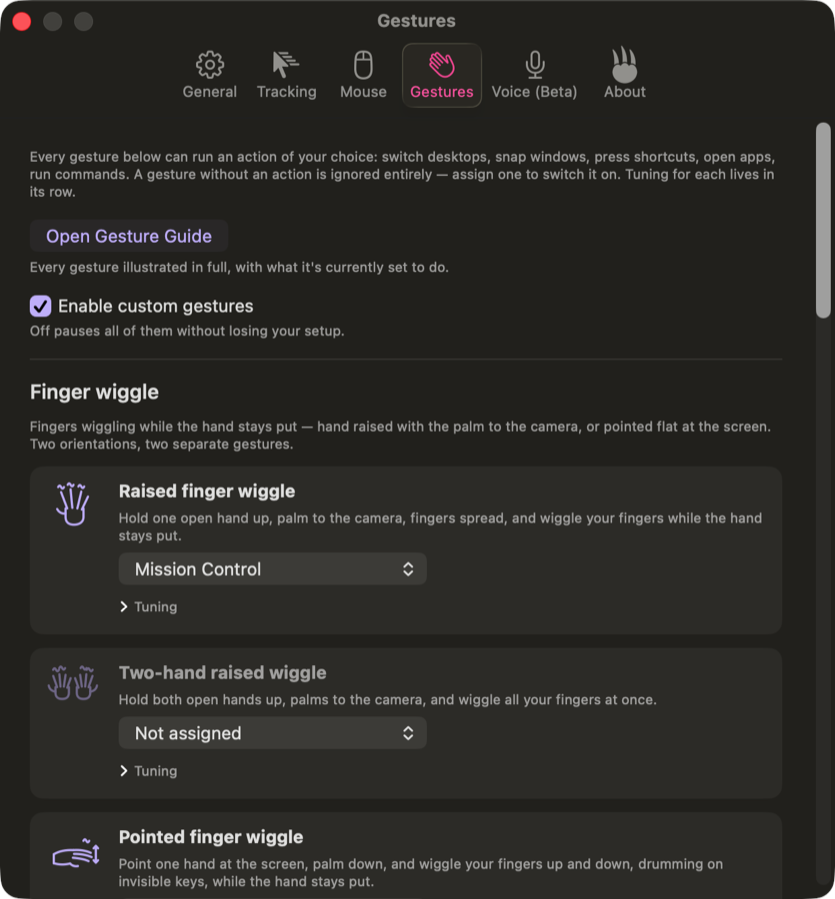
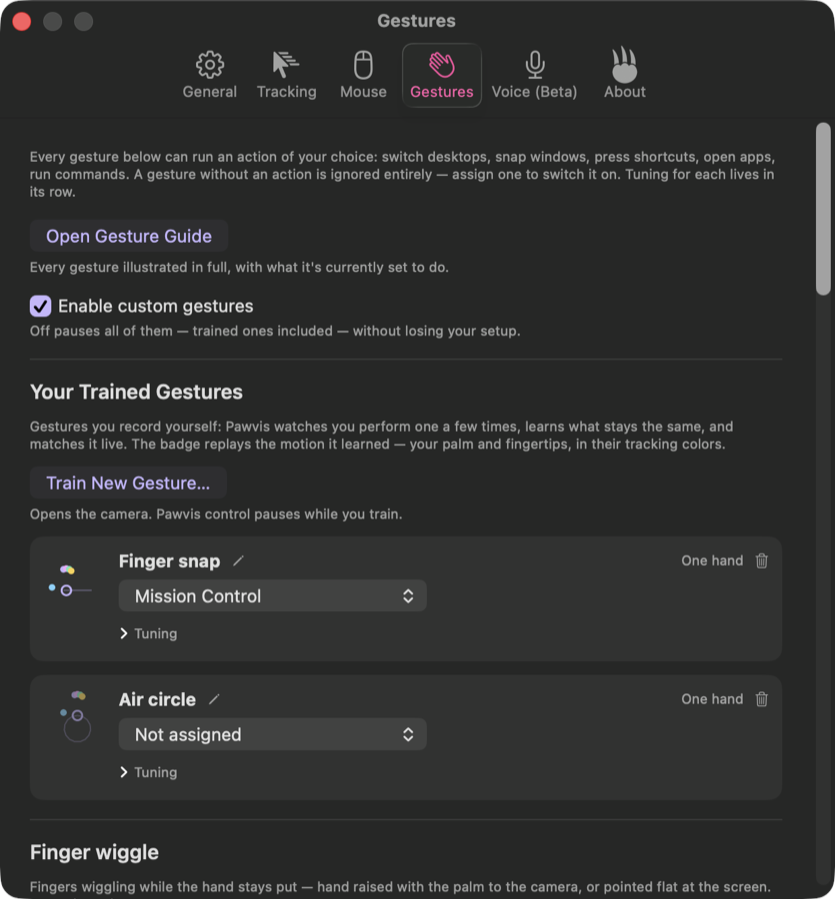
docs: train-your-own reaches the README, the site, and AGENTS
The README gains the trainer bullet (what you record, what Pawvis
learns, what pauses while you train, and that nothing leaves the Mac),
the site's custom-gestures card offers it in a sentence, the settings
screenshot shows the new section with two trained gestures and their
badges, and AGENTS.md records the pipeline's constraints: training
suspends control, firing latches until the match breaks, templates
persist while takes don't, and the badge is the icon.

diff --git a/docs/index.html b/docs/index.html
@@ -183,8 +183,8 @@
           <img class="glyph" src="assets/gestures/grab-up-right.svg" alt="" width="48" height="48" loading="lazy">
         </div>
         <h3>Custom gestures, your actions</h3>
-        <p>Wiggle your fingers with the hand raised to the camera, or point it flat at the screen and drum on invisible keys (a separate gesture, one hand or both). Hold a fist with the thumb up, down, left or right. Hold a shaka. Bunch your fingertips onto your thumb and fling the bunch toward any edge or corner. Every gesture is listed in <strong>Settings&nbsp;→&nbsp;Gestures</strong>, off until you give it an action: switch desktops, snap and move windows, go back or forward, press any shortcut, open any app, run any command. Each row carries its own tuning dials.</p>
-        <p class="card-note mono">nothing bound by default · tuning on every gesture · the guide illustrates every gesture in full</p>
+        <p>Wiggle your fingers with the hand raised to the camera, or point it flat at the screen and drum on invisible keys (a separate gesture, one hand or both). Hold a fist with the thumb up, down, left or right. Hold a shaka. Bunch your fingertips onto your thumb and fling the bunch toward any edge or corner. Or teach Pawvis a gesture of your own: record any motion (one hand or two) a few times in the trainer window and it learns to match it, with an animated badge that replays what it learned. Every gesture is listed in <strong>Settings&nbsp;→&nbsp;Gestures</strong>, off until you give it an action: switch desktops, snap and move windows, go back or forward, press any shortcut, open any app, run any command. Each row carries its own tuning dials.</p>
+        <p class="card-note mono">nothing bound by default · tuning on every gesture · train your own from the camera</p>
       </article>
 
       <article class="card card-wide" data-reveal>

diff --git a/AGENTS.md b/AGENTS.md
@@ -329,6 +329,38 @@ question is how they were fixed. Do not retune these from intuition:
   path. Re-introducing them means beating those failure modes on
   `--gesture-eval` clips first.
 
+**User-trained gestures** (`GestureTrace`, `TakeRecorder`,
+`TrainedGestureBuilder`, `TrainedGestureDetector` — all pure PawvisCore):
+the trainer window records 3–10 takes; a take is segmented from the live
+stream by motion (or captured as a held pose after a grace), reduced to
+16 keyframes of palm-relative fingertip offsets plus scale-normalized
+palm travel, and takes are averaged along DTW alignment to their medoid.
+The matching threshold is calibrated from the takes' own spread; the
+per-gesture sensitivity slider scales it (0.7×–1.6×). Live matching
+DTW-scores a rolling window at three tempo scales and fires under the
+threshold. Its constraints:
+
+- **Training suspends control.** The trainer taps the camera stream ahead
+  of the engine (`PawvisController.beginTraining`): nothing reaches the
+  mouse or the other detectors while the window is open, because training
+  must not fight the very motions it records.
+- **Firing latches until the match visibly breaks** (distance 1.3× over
+  threshold), so a *held* trained pose fires once per performance, not
+  once per refractory — the custom hold-pose lesson, applied here.
+- **Presses and the criss-cross wave stand matching down**, and a
+  two-hand gesture matches only the ordered left-to-right pair stream:
+  half the pair is not the gesture.
+- **The representation is translation- and distance-invariant, not
+  rotation-invariant.** A swipe left and a swipe right are different
+  gestures — which is what you want from a trained library.
+- **Templates persist, takes don't.** Settings hold the learned keyframes
+  and calibration only (element-tolerant list, like the bindings);
+  retraining means re-recording.
+- **The badge is the icon.** A trained gesture draws its own learned
+  motion — palm trail plus fingertip dots in `PawvisTheme.fingerDots` —
+  instead of generated SVG art; the trainer's live overlay uses the same
+  colors, so the badge reads as a replay of what you did.
+
 ## Gesture actions
 
 How a bound gesture's action actually reaches macOS

diff --git a/README.md b/README.md
@@ -98,6 +98,17 @@ Mouse**.
   can be dialed in on the spot. The pill at the top of the screen confirms
   every fire, and the Gesture Guide illustrates every gesture in full, with
   what it is currently set to do.
+- **Train your own gestures**: **Settings → Gestures → Train New Gesture**
+  opens a camera window with your hand's tracking drawn live, a color per
+  fingertip and a ring on the palm. Pick one hand or two, perform your
+  motion (or hold a pose) 3 to 10 times, and Pawvis learns a template from
+  your takes, tells you when they agree well enough, and lets you try the
+  match live before saving. Trained gestures join the Gestures tab with an
+  animated badge that replays the learned motion, and they work like the
+  built-ins: rename them, remove them, tune how strictly they match, and
+  bind them to any action from the same catalog (or leave them unassigned).
+  Pawvis control pauses while the trainer is open, so recording never
+  fights the mouse. Training data never leaves this Mac, like all tracking.
 - **Reach adapts to distance.** Auto mode sizes the tracking area from how big
   your hand looks, so the whole screen stays reachable up close *and* far away
   with your fingers staying inside the camera frame. Manual mode gives you a
@@ -254,6 +265,7 @@ Sources/
     Hands/             21-landmark model · pinch/dip/curl metrics
     Gestures/          GestureEngine: frames → clicks, drags, scrolls, cursor moves
                        + the custom one-shot gestures (wiggles, held poses, flings)
+                       + user-trained gestures (recorded takes → matched templates)
     Actions/           gesture actions · typed-shortcut parsing · window placement math
     VoiceControl/      wake-word + command parser · spoken URLs & key chords
     Update/            semantic versions · check / offer / notify policy
